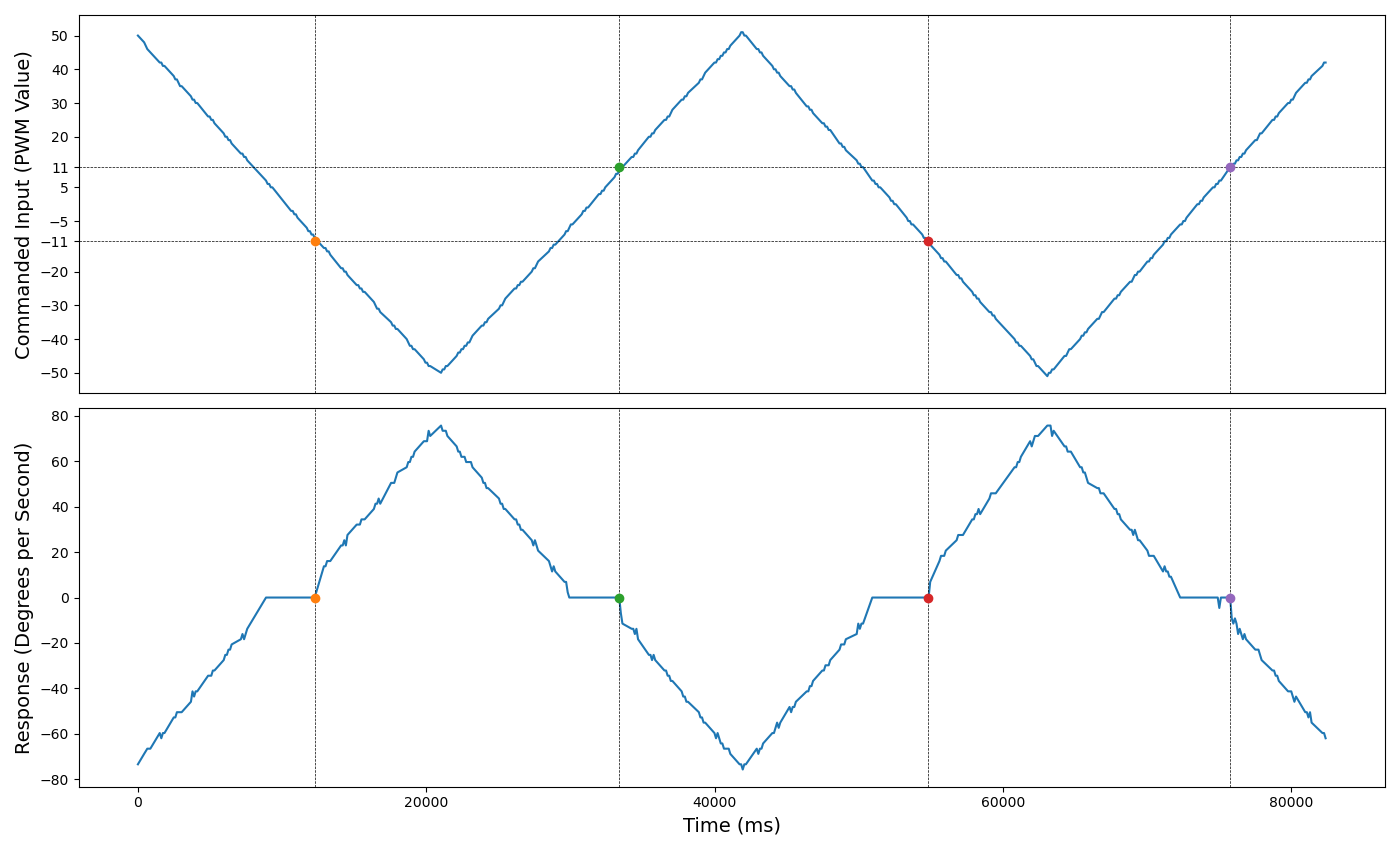
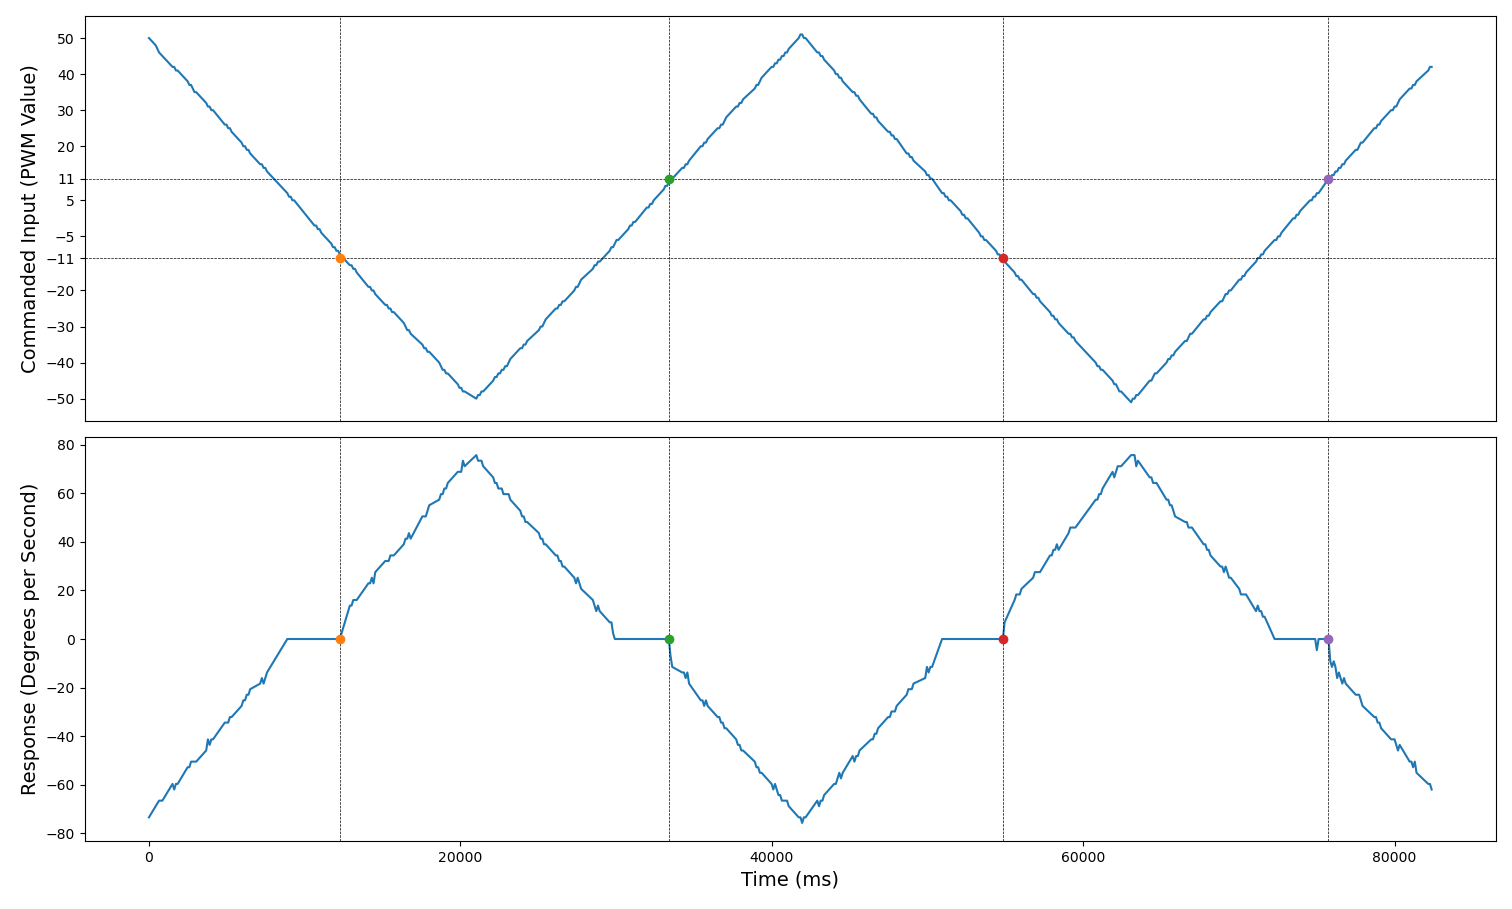
re-plotted deadband for compensated and uncompensated front and rear motors

diff --git a/Python/dead band/deadband_plotting.py b/Python/dead band/deadband_plotting.py
@@ -15,26 +15,31 @@ import numpy as np
 
 FRONT_PATH = './Python/dead band/SourceData/TriangleFrontDeadBandDataSpeed.csv'
 REAR_PATH = './Python/dead band/SourceData/TriangleRearDeadBandDataSpeedUnscaled.csv'
+FRONT_COMP_PATH = 'Python/dead band/SourceData/TriangleFrontDeadBandDataSpeedCorrected_5.csv'
+REAR_COMP_PATH = 'Python/dead band/SourceData/TriangleRearDeadBandDataSpeedCorrected_3.csv'
 
-REAR_TIME_DEADBAND_END_1 = 422400
-REAR_TIME_DEADBAND_END_2 = 443302
-REAR_TIME_DEADBAND_END_3 = 4.6444e+05
-REAR_DEADBAND_START = -9
-REAR_DEADBAND_END = 11
+FRONT_DEADBAND_END_1 = 12253
+FRONT_DEADBAND_END_2 = 33382
+FRONT_DEADBAND_END_3 = 54837
+FRONT_DEADBAND_END_4 = 75752
+FRONT_DEADBAND_INPUT_START = -11
+FRONT_DEADBAND_INPUT_END = 11
 
-REAR_TIME_DEADBAND_END_UNSCALED_1 = 253569 - 240536
-REAR_TIME_DEADBAND_END_UNSCALED_2 = 274913 - 240536
-REAR_TIME_DEADBAND_END_UNSCALED_3 = 2.9550e+05 - 240536
-REAR_TIME_DEADBAND_END_UNSCALED_4 = 3.1726e+05 - 240536
-REAR_DEADBAND_UNSCALED_START = -9
-REAR_DEADBAND_UNSCALED_END = 11
+REAR_DEADBAND_END_1 = 253569 - 240536
+REAR_DEADBAND_END_2 = 274913 - 240536
+REAR_DEADBAND_END_3 = 2.9550e+05 - 240536
+REAR_DEADBAND_END_4 = 3.1726e+05 - 240536
+REAR_DEADBAND_INPUT_START = -9
+REAR_DEADBAND_INPUT_END = 11
 
-FRONT_TIME_DEADBAND_END_UNSCALED_1 = 12253
-FRONT_TIME_DEADBAND_END_UNSCALED_2 = 33382
-FRONT_TIME_DEADBAND_END_UNSCALED_3 = 54837
-FRONT_TIME_DEADBAND_END_UNSCALED_4 = 75752
-FRONT_DEADBAND_UNSCALED_START = -11
-FRONT_DEADBAND_UNSCALED_END = 11
+FRONT_COMP_DEADBAND_END_1 = 12840
+FRONT_COMP_DEADBAND_END_2 = 34054
+FRONT_COMP_DEADBAND_END_3 = 55066
+FRONT_COMP_DEADBAND_END_4 = 76309
+
+REAR_COMP_DEADBAND_END_1 = 9464
+REAR_COMP_DEADBAND_END_2 = 30904
+REAR_COMP_DEADBAND_END_3 = 51671
 
 def plot_front():
     # Reading CSV into pandas DataFrame #
@@ -48,30 +53,30 @@ def plot_front():
 
     # Plot on the first axis
     axs[0].plot(df['Relative Time'], df['Front Wheel Input'])
-    axs[0].axvline(x=FRONT_TIME_DEADBAND_END_UNSCALED_1, color='k', linestyle='--', linewidth=0.5)
-    axs[0].axvline(x=FRONT_TIME_DEADBAND_END_UNSCALED_2, color='k', linestyle='--', linewidth=0.5)
-    axs[0].axvline(x=FRONT_TIME_DEADBAND_END_UNSCALED_3, color='k', linestyle='--', linewidth=0.5)
-    axs[0].axvline(x=FRONT_TIME_DEADBAND_END_UNSCALED_4, color='k', linestyle='--', linewidth=0.5)
-    axs[0].axhline(y=FRONT_DEADBAND_UNSCALED_START, color='k', linestyle='--', linewidth=0.5)
-    axs[0].axhline(y=FRONT_DEADBAND_UNSCALED_END, color='k', linestyle='--', linewidth=0.5)
-    axs[0].plot(FRONT_TIME_DEADBAND_END_UNSCALED_1,FRONT_DEADBAND_UNSCALED_START,'o')
-    axs[0].plot(FRONT_TIME_DEADBAND_END_UNSCALED_2,FRONT_DEADBAND_UNSCALED_END,'o')
-    axs[0].plot(FRONT_TIME_DEADBAND_END_UNSCALED_3,FRONT_DEADBAND_UNSCALED_START,'o')
-    axs[0].plot(FRONT_TIME_DEADBAND_END_UNSCALED_4,FRONT_DEADBAND_UNSCALED_END,'o')
+    axs[0].axvline(x=FRONT_DEADBAND_END_1, color='k', linestyle='--', linewidth=0.5)
+    axs[0].axvline(x=FRONT_DEADBAND_END_2, color='k', linestyle='--', linewidth=0.5)
+    axs[0].axvline(x=FRONT_DEADBAND_END_3, color='k', linestyle='--', linewidth=0.5)
+    axs[0].axvline(x=FRONT_DEADBAND_END_4, color='k', linestyle='--', linewidth=0.5)
+    axs[0].axhline(y=FRONT_DEADBAND_INPUT_START, color='k', linestyle='--', linewidth=0.5)
+    axs[0].axhline(y=FRONT_DEADBAND_INPUT_END, color='k', linestyle='--', linewidth=0.5)
+    axs[0].plot(FRONT_DEADBAND_END_1,FRONT_DEADBAND_INPUT_START,'o')
+    axs[0].plot(FRONT_DEADBAND_END_2,FRONT_DEADBAND_INPUT_END,'o')
+    axs[0].plot(FRONT_DEADBAND_END_3,FRONT_DEADBAND_INPUT_START,'o')
+    axs[0].plot(FRONT_DEADBAND_END_4,FRONT_DEADBAND_INPUT_END,'o')
     axs[0].set_ylabel('Commanded Input (PWM Value)',fontsize=14)
     axs[0].set_yticks([-50,-40,-30,-20,-11,-5,5,11,20,30,40,50])
     axs[0].set_xticks([])
 
     # Plot on the second axis
     axs[1].plot(df['Relative Time'], df['Front Wheel Speed'])
-    axs[1].axvline(x=FRONT_TIME_DEADBAND_END_UNSCALED_1, color='k', linestyle='--', linewidth=0.5)
-    axs[1].axvline(x=FRONT_TIME_DEADBAND_END_UNSCALED_2, color='k', linestyle='--', linewidth=0.5)
-    axs[1].axvline(x=FRONT_TIME_DEADBAND_END_UNSCALED_3, color='k', linestyle='--', linewidth=0.5)
-    axs[1].axvline(x=FRONT_TIME_DEADBAND_END_UNSCALED_4, color='k', linestyle='--', linewidth=0.5)
-    axs[1].plot(FRONT_TIME_DEADBAND_END_UNSCALED_1,0,'o')
-    axs[1].plot(FRONT_TIME_DEADBAND_END_UNSCALED_2,0,'o')
-    axs[1].plot(FRONT_TIME_DEADBAND_END_UNSCALED_3,0,'o')
-    axs[1].plot(FRONT_TIME_DEADBAND_END_UNSCALED_4,0,'o')
+    axs[1].axvline(x=FRONT_DEADBAND_END_1, color='k', linestyle='--', linewidth=0.5)
+    axs[1].axvline(x=FRONT_DEADBAND_END_2, color='k', linestyle='--', linewidth=0.5)
+    axs[1].axvline(x=FRONT_DEADBAND_END_3, color='k', linestyle='--', linewidth=0.5)
+    axs[1].axvline(x=FRONT_DEADBAND_END_4, color='k', linestyle='--', linewidth=0.5)
+    axs[1].plot(FRONT_DEADBAND_END_1,0,'o')
+    axs[1].plot(FRONT_DEADBAND_END_2,0,'o')
+    axs[1].plot(FRONT_DEADBAND_END_3,0,'o')
+    axs[1].plot(FRONT_DEADBAND_END_4,0,'o')
     axs[1].set_xlabel('Time (ms)',fontsize=14)
     axs[1].set_ylabel('Response (Degrees per Second)',fontsize=14)
 
@@ -98,33 +103,33 @@ def plot_rear():
 
     # Plot on the first axis
     axs[0].plot(df['Relative Time'], df['Rear Wheel Input'])
-    axs[0].axvline(x=REAR_TIME_DEADBAND_END_UNSCALED_1, color='k', linestyle='--', linewidth=0.5)
-    axs[0].axvline(x=REAR_TIME_DEADBAND_END_UNSCALED_2, color='k', linestyle='--', linewidth=0.5)
-    axs[0].axvline(x=REAR_TIME_DEADBAND_END_UNSCALED_3, color='k', linestyle='--', linewidth=0.5)
-    axs[0].axvline(x=REAR_TIME_DEADBAND_END_UNSCALED_4, color='k', linestyle='--', linewidth=0.5)
+    axs[0].axvline(x=REAR_DEADBAND_END_1, color='k', linestyle='--', linewidth=0.5)
+    axs[0].axvline(x=REAR_DEADBAND_END_2, color='k', linestyle='--', linewidth=0.5)
+    axs[0].axvline(x=REAR_DEADBAND_END_3, color='k', linestyle='--', linewidth=0.5)
+    axs[0].axvline(x=REAR_DEADBAND_END_4, color='k', linestyle='--', linewidth=0.5)
 
-    axs[0].plot(REAR_TIME_DEADBAND_END_UNSCALED_1,REAR_DEADBAND_START,'o')
-    axs[0].plot(REAR_TIME_DEADBAND_END_UNSCALED_2,REAR_DEADBAND_END,'o')
-    axs[0].plot(REAR_TIME_DEADBAND_END_UNSCALED_3,REAR_DEADBAND_START,'o')
-    axs[0].plot(REAR_TIME_DEADBAND_END_UNSCALED_4,REAR_DEADBAND_END,'o')
+    axs[0].plot(REAR_DEADBAND_END_1,REAR_DEADBAND_INPUT_START,'o')
+    axs[0].plot(REAR_DEADBAND_END_2,REAR_DEADBAND_INPUT_END,'o')
+    axs[0].plot(REAR_DEADBAND_END_3,REAR_DEADBAND_INPUT_START,'o')
+    axs[0].plot(REAR_DEADBAND_END_4,REAR_DEADBAND_INPUT_END,'o')
 
-    axs[0].axhline(y=REAR_DEADBAND_START, color='k', linestyle='--', linewidth=0.5)
-    axs[0].axhline(y=REAR_DEADBAND_END, color='k', linestyle='--', linewidth=0.5)
+    axs[0].axhline(y=REAR_DEADBAND_INPUT_START, color='k', linestyle='--', linewidth=0.5)
+    axs[0].axhline(y=REAR_DEADBAND_INPUT_END, color='k', linestyle='--', linewidth=0.5)
     axs[0].set_ylabel('Commanded Input (PWM Value)',fontsize=14)
     axs[0].set_yticks([-50,-40,-30,-20,-9,-5,5,11,20,30,40,50])
     axs[0].set_xticks([])
 
     # Plot on the second axis
     axs[1].plot(df['Relative Time'], df['Rear Wheel Speed'])
-    axs[1].axvline(x=REAR_TIME_DEADBAND_END_UNSCALED_1, color='k', linestyle='--', linewidth=0.5)
-    axs[1].axvline(x=REAR_TIME_DEADBAND_END_UNSCALED_2, color='k', linestyle='--', linewidth=0.5)
-    axs[1].axvline(x=REAR_TIME_DEADBAND_END_UNSCALED_3, color='k', linestyle='--', linewidth=0.5)
-    axs[1].axvline(x=REAR_TIME_DEADBAND_END_UNSCALED_4, color='k', linestyle='--', linewidth=0.5)
+    axs[1].axvline(x=REAR_DEADBAND_END_1, color='k', linestyle='--', linewidth=0.5)
+    axs[1].axvline(x=REAR_DEADBAND_END_2, color='k', linestyle='--', linewidth=0.5)
+    axs[1].axvline(x=REAR_DEADBAND_END_3, color='k', linestyle='--', linewidth=0.5)
+    axs[1].axvline(x=REAR_DEADBAND_END_4, color='k', linestyle='--', linewidth=0.5)
 
-    axs[1].plot(REAR_TIME_DEADBAND_END_UNSCALED_1,0,'o')
-    axs[1].plot(REAR_TIME_DEADBAND_END_UNSCALED_2,0,'o')
-    axs[1].plot(REAR_TIME_DEADBAND_END_UNSCALED_3,0,'o')
-    axs[1].plot(REAR_TIME_DEADBAND_END_UNSCALED_4,0,'o')
+    axs[1].plot(REAR_DEADBAND_END_1,0,'o')
+    axs[1].plot(REAR_DEADBAND_END_2,0,'o')
+    axs[1].plot(REAR_DEADBAND_END_3,0,'o')
+    axs[1].plot(REAR_DEADBAND_END_4,0,'o')
 
     axs[1].set_xlabel('Time (ms)',fontsize=14)
     axs[1].set_ylabel('Response (Degrees per Second)',fontsize=14)
@@ -140,6 +145,106 @@ def plot_rear():
     plt.title('Commanded Value vs Response')
     plt.show()
 
+def plot_front_compensated():
+    # Reading CSV into pandas DataFrame #
+    df = pd.read_csv(FRONT_COMP_PATH)
+    df['Relative Time'] = df['Time']-df['Time'].iloc[0]
+
+    # Plotting Angle vs Time #
+    fig, axs = plt.subplots(2, 1)
+    fig.set_figheight(8.5)
+    fig.set_figwidth(14)
+
+    # Plot on the first axis
+    axs[0].plot(df['Relative Time'], df['Front Wheel Input'])
+    axs[0].axvline(x=FRONT_COMP_DEADBAND_END_1, color='k', linestyle='--', linewidth=0.5)
+    axs[0].axvline(x=FRONT_COMP_DEADBAND_END_2, color='k', linestyle='--', linewidth=0.5)
+    axs[0].axvline(x=FRONT_COMP_DEADBAND_END_3, color='k', linestyle='--', linewidth=0.5)
+    axs[0].axvline(x=FRONT_COMP_DEADBAND_END_4, color='k', linestyle='--', linewidth=0.5)
+    axs[0].axhline(y=FRONT_DEADBAND_INPUT_START, color='k', linestyle='--', linewidth=0.5)
+    axs[0].axhline(y=FRONT_DEADBAND_INPUT_END, color='k', linestyle='--', linewidth=0.5)
+    axs[0].plot(FRONT_COMP_DEADBAND_END_1,FRONT_DEADBAND_INPUT_END,'o')
+    axs[0].plot(FRONT_COMP_DEADBAND_END_2,FRONT_DEADBAND_INPUT_START,'o')
+    axs[0].plot(FRONT_COMP_DEADBAND_END_3,FRONT_DEADBAND_INPUT_END,'o')
+    axs[0].plot(FRONT_COMP_DEADBAND_END_4,FRONT_DEADBAND_INPUT_START,'o')
+    axs[0].set_ylabel('Commanded Input (PWM Value)',fontsize=14)
+    axs[0].set_yticks([-50,-40,-30,-20,-11,-5,5,11,20,30,40,50])
+    axs[0].set_xticks([])
+    # axs[0].set_title('Commanded Input vs Time')
+
+    # Plot on the second axis
+    axs[1].plot(df['Relative Time'], df['Front Wheel Speed'])
+    axs[1].axvline(x=FRONT_COMP_DEADBAND_END_1, color='k', linestyle='--', linewidth=0.5)
+    axs[1].axvline(x=FRONT_COMP_DEADBAND_END_2, color='k', linestyle='--', linewidth=0.5)
+    axs[1].axvline(x=FRONT_COMP_DEADBAND_END_3, color='k', linestyle='--', linewidth=0.5)
+    axs[1].axvline(x=FRONT_COMP_DEADBAND_END_4, color='k', linestyle='--', linewidth=0.5)
+    axs[1].plot(FRONT_COMP_DEADBAND_END_1,0,'o')
+    axs[1].plot(FRONT_COMP_DEADBAND_END_2,0,'o')
+    axs[1].plot(FRONT_COMP_DEADBAND_END_3,0,'o')
+    axs[1].plot(FRONT_COMP_DEADBAND_END_4,0,'o')
+    axs[1].set_xlabel('Time (ms)',fontsize=14)
+    axs[1].set_ylabel('Response (Degrees per Second)',fontsize=14)
+    # axs[1].set_title('Response vs Time')
+
+    # Show the plot
+    plt.tight_layout()
+    plt.show()
+
+    sorted_df = df.sort_values('Front Wheel Input')
+    plt.scatter(sorted_df['Front Wheel Input'],sorted_df['Front Wheel Speed'])
+    plt.xlabel('Commanded Value (PWM Input)')
+    plt.ylabel('Response (Degrees Per Second)')
+    plt.title('Commanded Value vs Response')
+    plt.show()
+
+def plot_rear_compensated():
+    # Reading CSV into pandas DataFrame #
+    df = pd.read_csv(REAR_COMP_PATH)
+    df['Relative Time'] = df['Time']-df['Time'].iloc[0]
+
+    # Plotting Angle vs Time #
+    fig, axs = plt.subplots(2, 1)
+    fig.set_figheight(8.5)
+    fig.set_figwidth(14)
+
+    # Plot on the first axis
+    axs[0].plot(df['Relative Time'], df['Rear Wheel Input'])
+    axs[0].axvline(x=REAR_COMP_DEADBAND_END_1, color='k', linestyle='--', linewidth=0.5)
+    axs[0].axvline(x=REAR_COMP_DEADBAND_END_2, color='k', linestyle='--', linewidth=0.5)
+    axs[0].axvline(x=REAR_COMP_DEADBAND_END_3, color='k', linestyle='--', linewidth=0.5)
+    axs[0].axhline(y=REAR_DEADBAND_INPUT_START, color='k', linestyle='--', linewidth=0.5)
+    axs[0].axhline(y=REAR_DEADBAND_INPUT_END, color='k', linestyle='--', linewidth=0.5)
+    axs[0].plot(REAR_COMP_DEADBAND_END_1,REAR_DEADBAND_INPUT_START,'o')
+    axs[0].plot(REAR_COMP_DEADBAND_END_2,REAR_DEADBAND_INPUT_END,'o')
+    axs[0].plot(REAR_COMP_DEADBAND_END_3,REAR_DEADBAND_INPUT_START,'o')
+    axs[0].set_ylabel('Commanded Input (PWM Value)',fontsize=14)
+    axs[0].set_yticks([-50,-40,-30,-20,REAR_DEADBAND_INPUT_START,-5,5,REAR_DEADBAND_INPUT_END,20,30,40,50])
+    axs[0].set_xticks([])
+
+    # Plot on the second axis
+    axs[1].plot(df['Relative Time'], df['Rear Wheel Speed'])
+    axs[1].axvline(x=REAR_COMP_DEADBAND_END_1, color='k', linestyle='--', linewidth=0.5)
+    axs[1].axvline(x=REAR_COMP_DEADBAND_END_2, color='k', linestyle='--', linewidth=0.5)
+    axs[1].axvline(x=REAR_COMP_DEADBAND_END_3, color='k', linestyle='--', linewidth=0.5)
+    axs[1].plot(REAR_COMP_DEADBAND_END_1,0,'o')
+    axs[1].plot(REAR_COMP_DEADBAND_END_2,0,'o')
+    axs[1].plot(REAR_COMP_DEADBAND_END_3,0,'o')
+    axs[1].set_xlabel('Time (ms)',fontsize=14)
+    axs[1].set_ylabel('Response (Degrees per Second)',fontsize=14)
+
+    # Show the plot
+    plt.tight_layout()
+    plt.show()
+
+    sorted_df = df.sort_values('Rear Wheel Input')
+    plt.scatter(sorted_df['Rear Wheel Input'],sorted_df['Rear Wheel Speed'])
+    plt.xlabel('Commanded Value (PWM Input)')
+    plt.ylabel('Response (Degrees Per Second)')
+    plt.title('Commanded Value vs Response')
+    plt.show()
+
 if __name__ == '__main__':
-    # plot_front()
-    plot_rear()
+    plot_front()
+    # plot_rear()
+    # plot_front_compensated()
+    # plot_rear_compensated()
